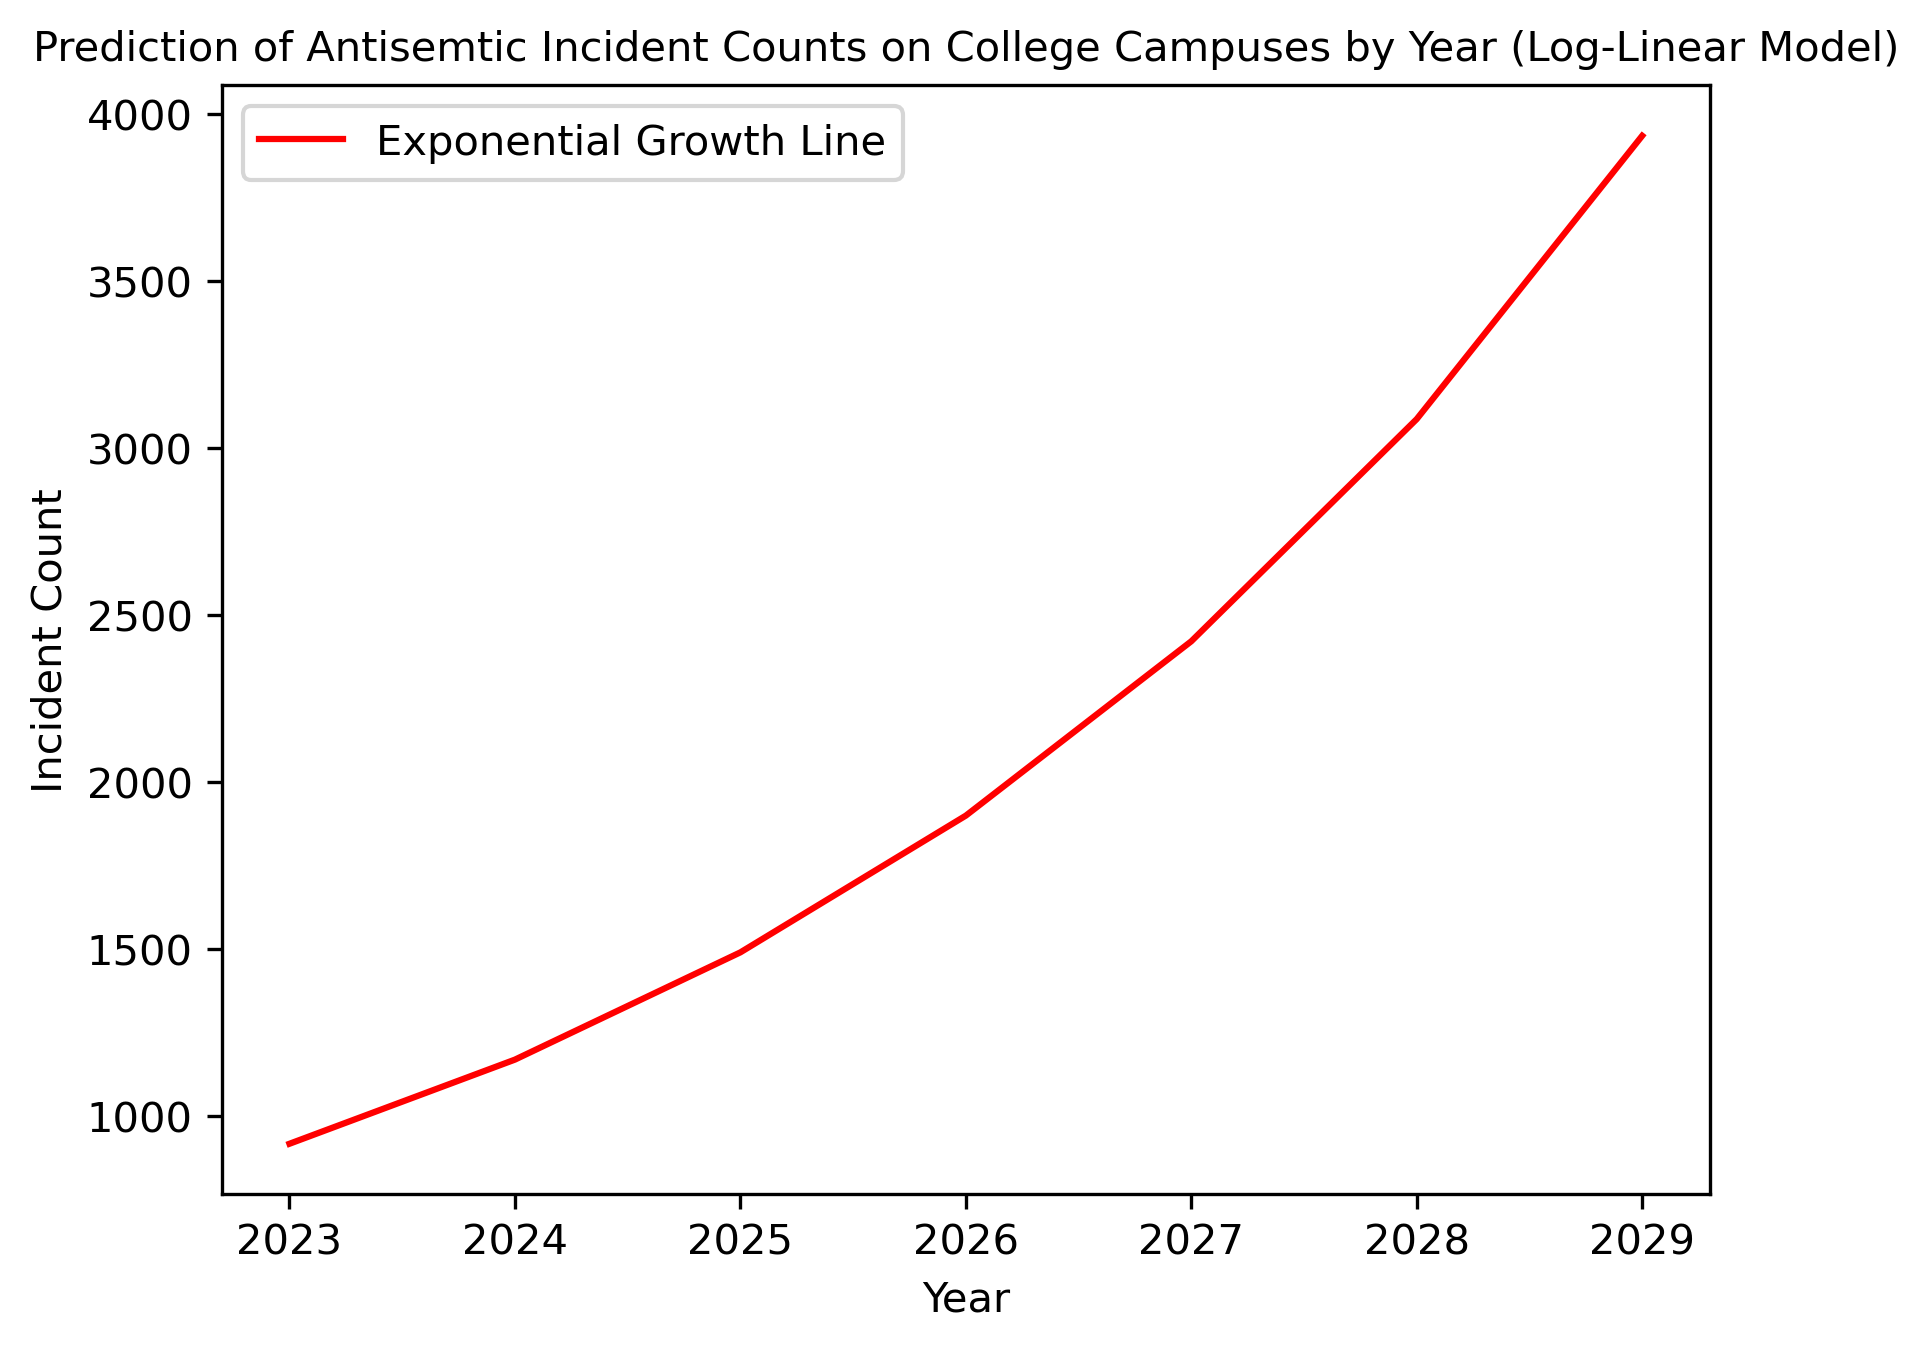
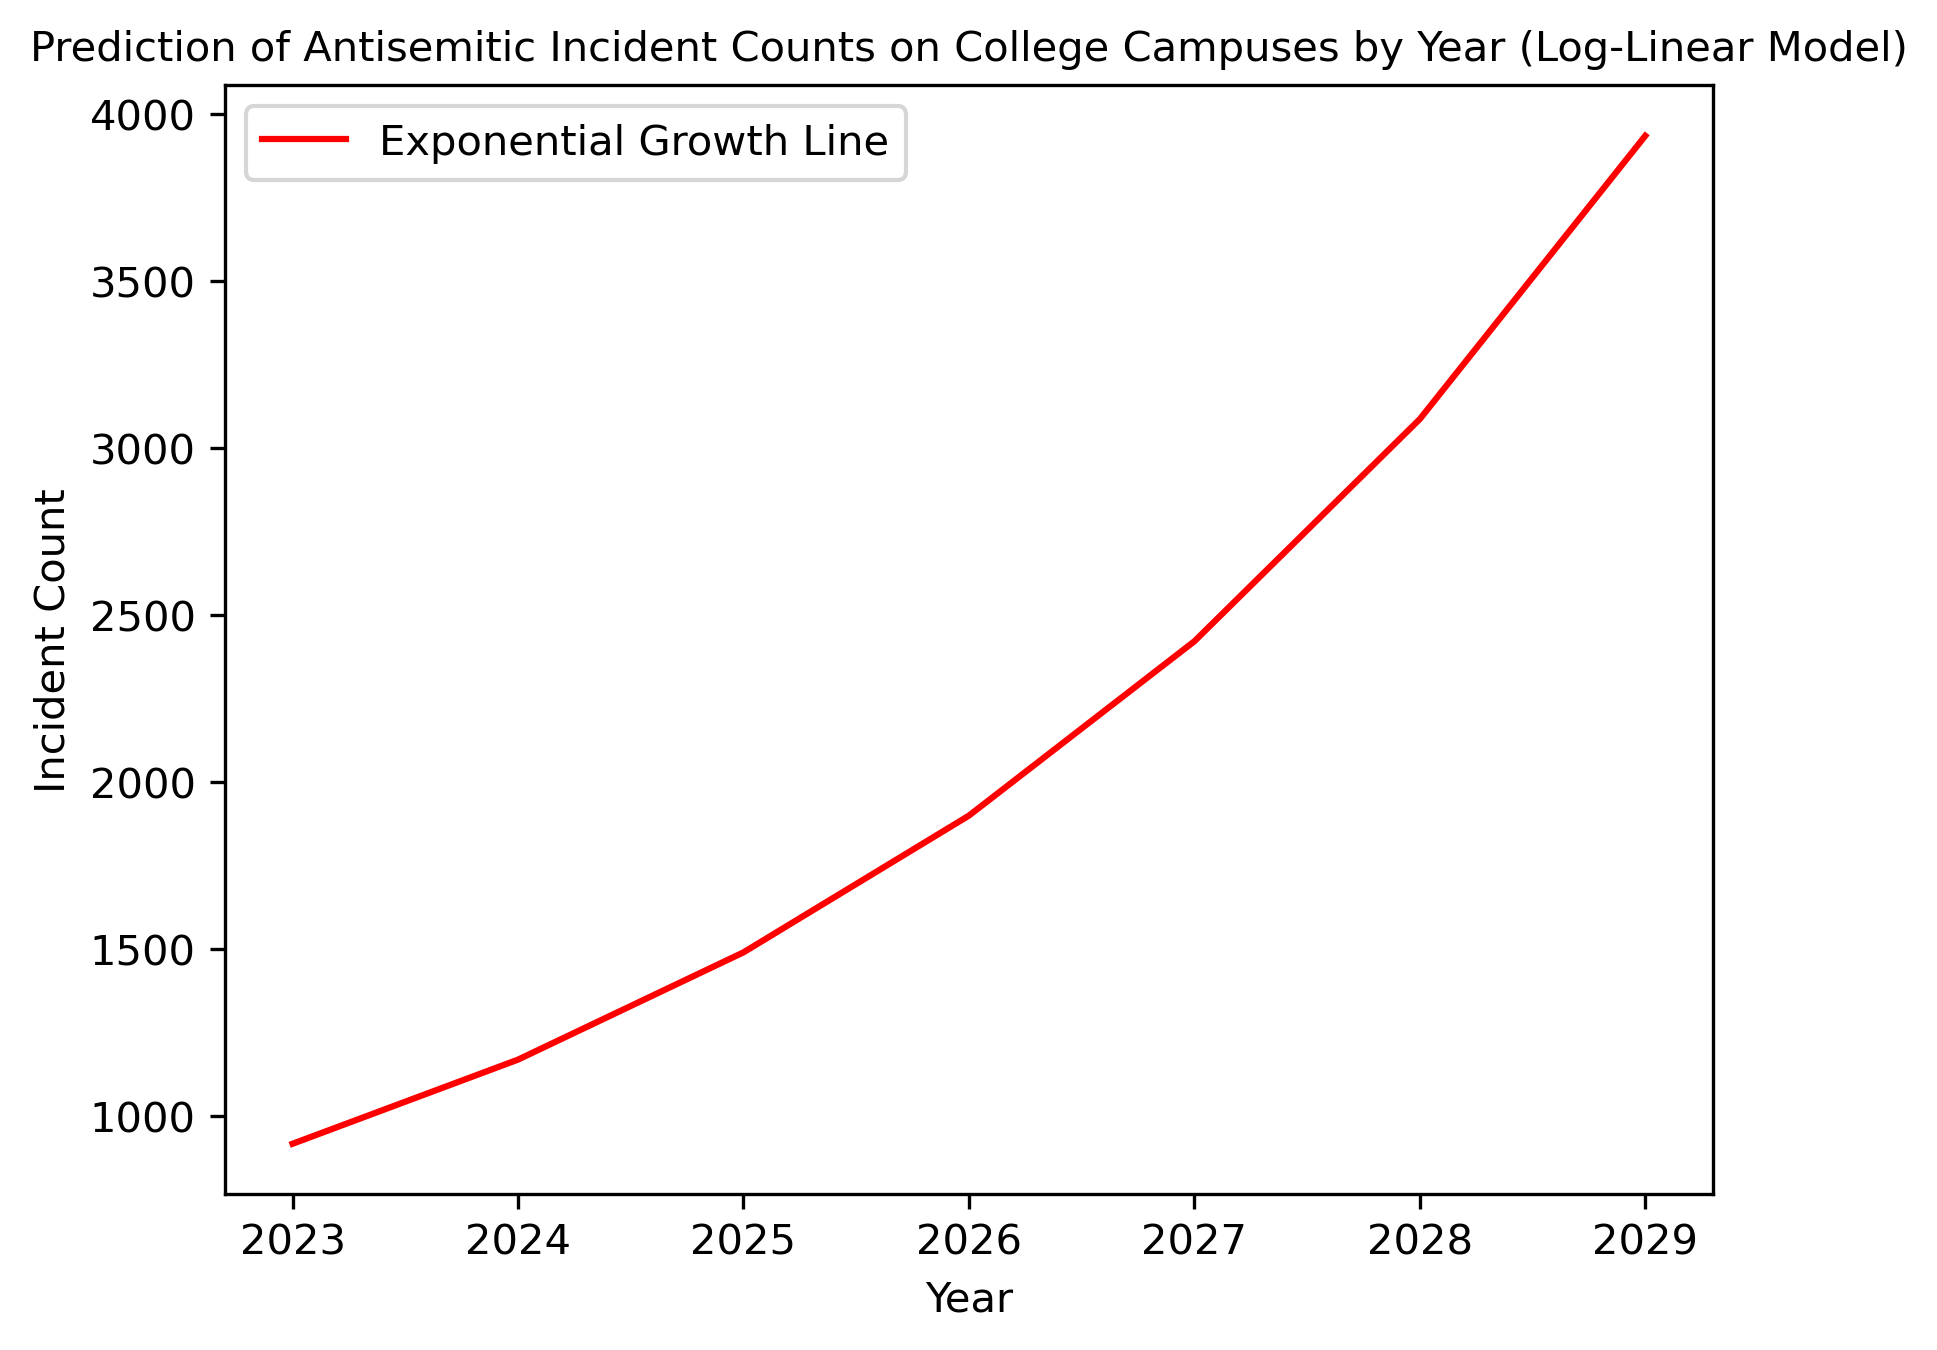
fix spelling error

diff --git a/scripts/machine_learning_scripts/linear_regression_model.py b/scripts/machine_learning_scripts/linear_regression_model.py
@@ -50,7 +50,7 @@ plt.plot(next_5_years['Year'], predictions, 'ro', label='Predicted Incident Coun
 # Labels and title
 plt.xlabel('Year')
 plt.ylabel('Incident Count')
-plt.title('Prediction of Antisemtic Incident Counts on College Campuses by Year (Linear Regression Model)', fontsize=10)
+plt.title('Prediction of Antisemitic Incident Counts on College Campuses by Year (Linear Regression Model)', fontsize=10)
 plt.legend()
 
 plt.savefig('visualizations/linear_regression_model.png', bbox_inches='tight', dpi=300)

diff --git a/scripts/machine_learning_scripts/loglinear_model.py b/scripts/machine_learning_scripts/loglinear_model.py
@@ -57,7 +57,7 @@ plt.plot(combined_years, combined_predictions, color='red', label='Exponential G
 
 plt.xlabel('Year')
 plt.ylabel('Incident Count')
-plt.title('Prediction of Antisemtic Incident Counts on College Campuses by Year (Log-Linear Model)', fontsize=10)
+plt.title('Prediction of Antisemitic Incident Counts on College Campuses by Year (Log-Linear Model)', fontsize=10)
 plt.legend()
 
 plt.savefig('visualizations/loglinear_model.png', bbox_inches='tight', dpi=300)
